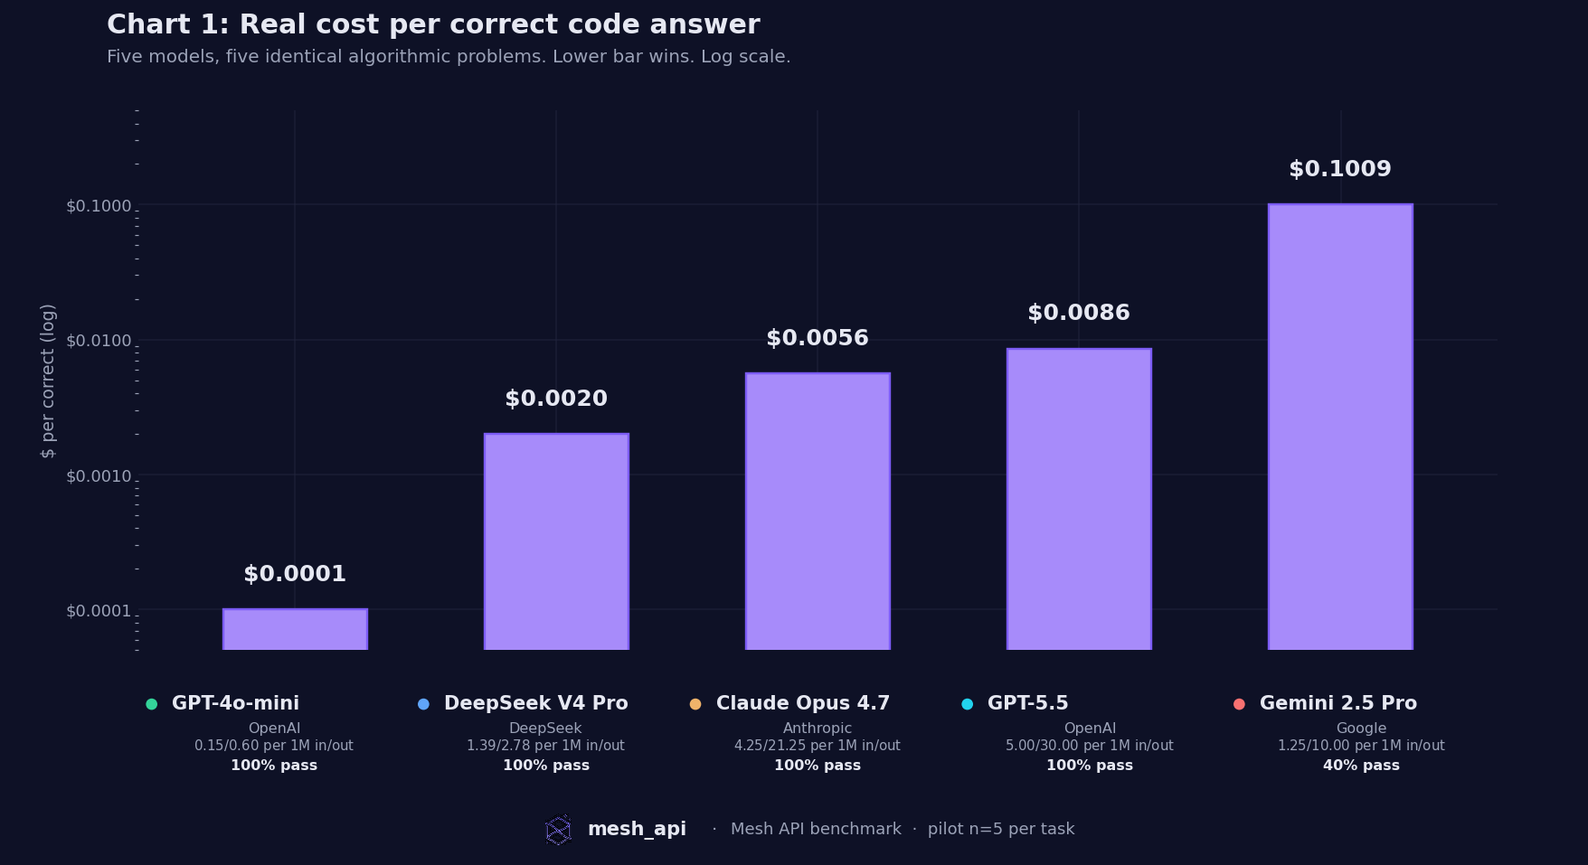
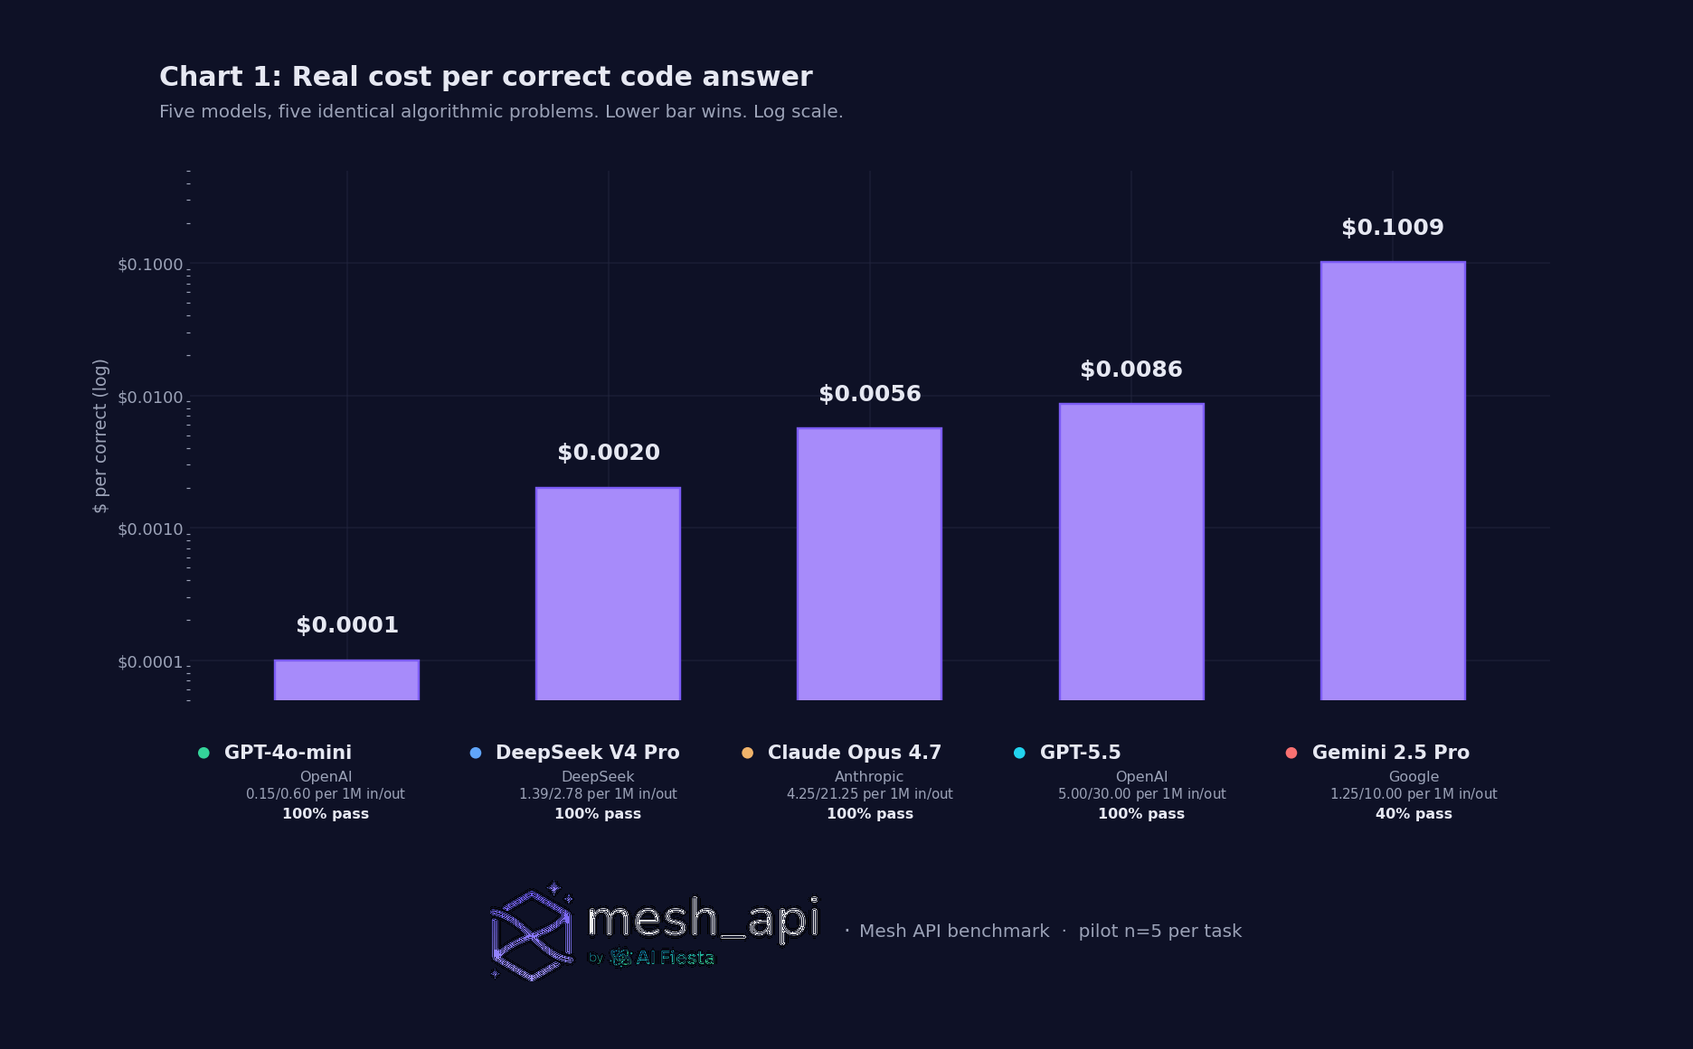
Charts and copy refresh
- Swap chart and table footer to the full mesh_api logo (transparent PNG,
  rendered from mesh_api_logo_main_dark_theme.svg via cairosvg).
- Add padding around every chart/table (pad_inches=0.5) for breathing room.
- Bump footer height so the logo + tagline read clearly at thread-image scale.
- Reframe Gemini reasoning-token claim across blog_post, x_article, README,
  and HTML: now phrased as "~23x more output tokens billed than what
  actually appeared in the response" (the ratio is the story).
- Add latency methodology caveat: numbers are end-to-end wall clock and
  include network RTT + Mesh routing overhead + provider inference, not
  isolated model service time.

diff --git a/blog_post.html b/blog_post.html
@@ -344,7 +344,7 @@
   </div>
   <div class="card">
     <div class="num">03</div>
-    <div class="lede"><strong>Gemini 2.5 Pro billed 19,165 "output tokens" across 5 code problems.</strong> Visible answer content: ~840 tokens. Roughly <strong>96% hidden reasoning</strong> Mesh strips before the response reaches you. The model still only got 2 of 5 problems right.</div>
+    <div class="lede"><strong>Gemini 2.5 Pro billed roughly 23x more output tokens than what actually appeared in its responses.</strong> ~19,000 billed across 5 code problems, ~840 visible. The other ~18,000 are hidden reasoning the API strips before the response reaches you. The model still only got 2 of 5 right.</div>
   </div>
   <div class="card">
     <div class="num">04</div>
@@ -455,7 +455,7 @@
 
 <p><strong>Gemini 2.5 Pro is the worst case we measured:</strong></p>
 <ul>
-  <li>Output tokens billed across 5 code problems: <strong>19,165</strong></li>
+  <li>Output tokens billed across 5 code problems: <strong>~19,000</strong></li>
   <li>Visible answer content total: ~3,400 characters, roughly <strong>~840 tokens</strong></li>
   <li><strong>~96% of what we paid for never reached the response body.</strong></li>
 </ul>
@@ -513,7 +513,7 @@
 
 <h2>Latency, while we're at it</h2>
 
-<p>Cost isn't the only axis. On the same calls:</p>
+<p>These are <strong>end-to-end wall-clock numbers</strong>, request to response. They include our network round-trip, Mesh's routing overhead, and the upstream provider's inference. Not isolated model service time. Cost isn't the only axis:</p>
 
 <div class="table-wrap">
 <table>

diff --git a/make_charts.py b/make_charts.py
@@ -8,7 +8,9 @@ from matplotlib.patches import FancyBboxPatch
 from pathlib import Path
 
 OUT_DIR = Path(__file__).parent
-LOGO_PATH = Path("/Users/raushan/Documents/Career/AiFiesta/MeshAPI/marketing/Branding/mesh_api_logo_v2/mesh_api_logo_icon.png")
+# Pre-rendered mesh_api logo (the full lockup, dark-theme version).
+# Source: mesh_api_logo_main_dark_theme.svg, rendered at 1600px and tight-cropped.
+LOGO_PATH = OUT_DIR / "_assets_mesh_api_logo.png"
 
 # Palette inspired by reference screenshot (dark navy bg, violet + orange bars)
 BG = "#0E1126"
@@ -159,67 +161,47 @@ def add_title(fig, title, subtitle=None):
 
 
 def add_footer(fig, text="Mesh API benchmark  ·  pilot n=5 per task"):
-    """Bottom-center footer: Mesh icon + 'mesh_api' wordmark + separator + caption.
+    """Bottom-center footer: full mesh_api logo (lockup) + separator + caption.
 
-    Uses an inset axes spanning the figure width at the very bottom so the
-    icon and text always sit on the same baseline, regardless of figure size.
+    The logo already includes the 'mesh_api' wordmark, so we don't draw a
+    separate wordmark; we just place the logo image and the caption text
+    side by side on the same baseline.
     """
-    # Figure-coordinate bounding box for the footer strip
-    foot_y = 0.012
-    foot_h = 0.05
+    foot_y = 0.005
+    foot_h = 0.110
     foot_ax = fig.add_axes([0.0, foot_y, 1.0, foot_h], frameon=False)
-    foot_ax.set_xlim(0, 1)
-    foot_ax.set_ylim(0, 1)
+    foot_ax.set_xlim(0, 1); foot_ax.set_ylim(0, 1)
     foot_ax.set_xticks([]); foot_ax.set_yticks([])
     for s in foot_ax.spines.values(): s.set_visible(False)
-    foot_ax.set_facecolor("none")
     foot_ax.patch.set_alpha(0)
 
-    # Compose the centered footer line:
-    # [icon]  mesh_api   ·   {caption text}
-    placed_logo = False
+    placed = False
     if LOGO_PATH.exists():
         try:
             img = mpimg.imread(str(LOGO_PATH))
-            # Icon aspect: 48x58 (w x h)
-            # Place inside foot_ax with imshow. extent in foot_ax coords.
-            # We want the icon to occupy ~70% of foot_h vertically.
-            icon_h_frac = 0.7
             ih, iw = img.shape[0], img.shape[1]
-            # Compute icon width in foot_ax coords given fig aspect:
             fig_w_in, fig_h_in = fig.get_size_inches()
-            # foot_ax is 1.0 wide in fig-coord-x (so its width in inches = fig_w_in).
-            # foot_ax is foot_h tall in fig-coord-y (so its height in inches = fig_h_in*foot_h).
             ax_w_in = fig_w_in
             ax_h_in = fig_h_in * foot_h
-            # icon height in inches = icon_h_frac * ax_h_in
-            icon_h_in = icon_h_frac * ax_h_in
-            icon_w_in = icon_h_in * iw / ih
-            # icon width in axes coords:
-            icon_w = icon_w_in / ax_w_in
-            icon_h = icon_h_frac
-            # Center the composite "[icon] mesh_api · caption" horizontally.
-            # Text widths estimated; refined empirically.
-            wordmark_w = 0.080   # axes-x fraction for "mesh_api" at fontsize 10
-            sep_w = 0.012
-            caption_w = 0.20     # approx
-            gap = 0.010
-            total = icon_w + gap + wordmark_w + sep_w + caption_w
+            logo_h_in = 0.95 * ax_h_in
+            logo_w_in = logo_h_in * iw / ih
+            logo_w = logo_w_in / ax_w_in
+            logo_h = 0.95
+            sep_w = 0.010
+            caption_w = 0.22
+            gap = 0.014
+            total = logo_w + gap + sep_w + caption_w
             x = (1 - total) / 2
-            # Place icon
-            foot_ax.imshow(img, extent=(x, x + icon_w, (1 - icon_h)/2, (1 + icon_h)/2),
+            foot_ax.imshow(img, extent=(x, x + logo_w, (1 - logo_h)/2, (1 + logo_h)/2),
                            aspect="auto", interpolation="lanczos", zorder=2)
-            cx = x + icon_w + gap
-            foot_ax.text(cx, 0.5, "mesh_api", color=TEXT, fontsize=10.5,
-                         fontweight="bold", ha="left", va="center")
-            cx += wordmark_w
-            foot_ax.text(cx, 0.5, "·", color=SUBTEXT, fontsize=10, ha="left", va="center")
+            cx = x + logo_w + gap
+            foot_ax.text(cx, 0.5, "·", color=SUBTEXT, fontsize=12, ha="left", va="center")
             cx += sep_w
-            foot_ax.text(cx, 0.5, text, color=SUBTEXT, fontsize=9, ha="left", va="center")
-            placed_logo = True
+            foot_ax.text(cx, 0.5, text, color=SUBTEXT, fontsize=10, ha="left", va="center")
+            placed = True
         except Exception:
             pass
-    if not placed_logo:
+    if not placed:
         foot_ax.text(0.5, 0.5, f"mesh_api  ·  {text}", color=SUBTEXT,
                      fontsize=9, ha="center", va="center")
 
@@ -229,8 +211,8 @@ def add_footer(fig, text="Mesh API benchmark  ·  pilot n=5 per task"):
 # Single-metric headline chart, but with pass-rate annotation.
 # =============================================================================
 def chart_1():
-    fig, ax = plt.subplots(figsize=(12, 6.8))
-    fig.subplots_adjust(top=0.85, bottom=0.24, left=0.08, right=0.95)
+    fig, ax = plt.subplots(figsize=(12, 7.4))
+    fig.subplots_adjust(top=0.85, bottom=0.30, left=0.08, right=0.95)
     add_title(fig, "Chart 1: Real cost per correct code answer",
               "Five models, five identical algorithmic problems. Lower bar wins. Log scale.")
 
@@ -260,7 +242,7 @@ def chart_1():
     extras = [f"{p:.0f}% pass" for p in pass_rates]
     model_labels(ax, models, colors, y_below=-0.10, extras=extras)
     add_footer(fig)
-    plt.savefig(OUT_DIR / "chart_1_real_cost.png", dpi=144, bbox_inches="tight",
+    plt.savefig(OUT_DIR / "chart_1_real_cost.png", dpi=144, bbox_inches="tight", pad_inches=0.5,
                 facecolor=BG)
     plt.close()
 
@@ -269,8 +251,8 @@ def chart_1():
 # Chart 2: Task A scoreboard. Two bars per model (pass rate + $/correct).
 # =============================================================================
 def chart_2():
-    fig, ax = plt.subplots(figsize=(12, 6.8))
-    fig.subplots_adjust(top=0.83, bottom=0.24, left=0.08, right=0.92)
+    fig, ax = plt.subplots(figsize=(12, 7.2))
+    fig.subplots_adjust(top=0.83, bottom=0.27, left=0.08, right=0.92)
     add_title(fig, "Chart 2: Task A scoreboard. Pass rate and $/correct.",
               "Five original code problems. Score is % of test cases passed (left). Cost is dollars per correct solution (right, log).")
 
@@ -319,7 +301,7 @@ def chart_2():
     pill_legend(ax, [("Pass rate, %", VIOLET), ("$/correct, log", ORANGE)], y=1.04)
     model_labels(ax, models, [ACCENT[m] for m in models], y_below=-0.10)
     add_footer(fig)
-    plt.savefig(OUT_DIR / "chart_2_task_a.png", dpi=144, bbox_inches="tight",
+    plt.savefig(OUT_DIR / "chart_2_task_a.png", dpi=144, bbox_inches="tight", pad_inches=0.5,
                 facecolor=BG)
     plt.close()
 
@@ -328,8 +310,8 @@ def chart_2():
 # Chart 3: Task B scoreboard. Two bars per model (quality + $/qual-pt).
 # =============================================================================
 def chart_3():
-    fig, ax = plt.subplots(figsize=(12, 6.8))
-    fig.subplots_adjust(top=0.83, bottom=0.24, left=0.08, right=0.92)
+    fig, ax = plt.subplots(figsize=(12, 7.2))
+    fig.subplots_adjust(top=0.83, bottom=0.27, left=0.08, right=0.92)
     add_title(fig, "Chart 3: Task B scoreboard. Quality and $/quality-point.",
               "Five customer-support tickets. Quality is the LLM judge mean (1 to 5, error bars span temp 0.0 and 0.3). Cost is dollars per quality-point.")
 
@@ -372,7 +354,7 @@ def chart_3():
     pill_legend(ax, [("Quality, 1 to 5", VIOLET), ("$/qual-pt, log", ORANGE)], y=1.04)
     model_labels(ax, models, [ACCENT[m] for m in models], y_below=-0.10)
     add_footer(fig)
-    plt.savefig(OUT_DIR / "chart_3_task_b.png", dpi=144, bbox_inches="tight",
+    plt.savefig(OUT_DIR / "chart_3_task_b.png", dpi=144, bbox_inches="tight", pad_inches=0.5,
                 facecolor=BG)
     plt.close()
 
@@ -430,7 +412,7 @@ def chart_4():
     ax.set_xlabel("$ per quality-point across both tasks (log scale)",
                   color=SUBTEXT, fontsize=9.5)
     add_footer(fig)
-    plt.savefig(OUT_DIR / "chart_4_cross_task.png", dpi=144, bbox_inches="tight",
+    plt.savefig(OUT_DIR / "chart_4_cross_task.png", dpi=144, bbox_inches="tight", pad_inches=0.5,
                 facecolor=BG)
     plt.close()
 

diff --git a/make_tables.py b/make_tables.py
@@ -12,7 +12,8 @@ import matplotlib.patches as patches
 from matplotlib.patches import FancyBboxPatch, Rectangle
 
 OUT_DIR = Path(__file__).parent
-LOGO_PATH = Path("/Users/raushan/Documents/Career/AiFiesta/MeshAPI/marketing/Branding/mesh_api_logo_v2/mesh_api_logo_icon.png")
+# Full lockup mesh_api logo (cropped from mesh_api_logo_main_dark_theme.svg).
+LOGO_PATH = OUT_DIR / "_assets_mesh_api_logo.png"
 
 # Palette matches make_charts.py
 BG = "#0E1126"
@@ -45,8 +46,9 @@ def add_title(fig, title, subtitle=None):
 
 
 def add_footer(fig, text="Mesh API benchmark  ·  pilot n=5 per task  ·  github.com/aifiesta/mesh-bench-cost-vs-quality"):
-    foot_y = 0.012
-    foot_h = 0.05
+    """Bottom-center footer: full mesh_api logo + separator + caption."""
+    foot_y = 0.005
+    foot_h = 0.110
     foot_ax = fig.add_axes([0.0, foot_y, 1.0, foot_h], frameon=False)
     foot_ax.set_xlim(0, 1); foot_ax.set_ylim(0, 1)
     foot_ax.set_xticks([]); foot_ax.set_yticks([])
@@ -60,30 +62,26 @@ def add_footer(fig, text="Mesh API benchmark  ·  pilot n=5 per task  ·  github
             fig_w_in, fig_h_in = fig.get_size_inches()
             ax_w_in = fig_w_in
             ax_h_in = fig_h_in * foot_h
-            icon_h_in = 0.7 * ax_h_in
-            icon_w_in = icon_h_in * iw / ih
-            icon_w = icon_w_in / ax_w_in
-            wordmark_w = 0.060
+            logo_h_in = 0.95 * ax_h_in
+            logo_w_in = logo_h_in * iw / ih
+            logo_w = logo_w_in / ax_w_in
+            logo_h = 0.95
             sep_w = 0.010
-            caption_w = 0.62
-            gap = 0.008
-            total = icon_w + gap + wordmark_w + sep_w + caption_w
+            caption_w = 0.60
+            gap = 0.014
+            total = logo_w + gap + sep_w + caption_w
             x = (1 - total) / 2
-            foot_ax.imshow(img, extent=(x, x + icon_w, 0.15, 0.85),
+            foot_ax.imshow(img, extent=(x, x + logo_w, (1 - logo_h)/2, (1 + logo_h)/2),
                            aspect="auto", interpolation="lanczos", zorder=2)
-            cx = x + icon_w + gap
-            foot_ax.text(cx, 0.5, "mesh_api", color=TEXT, fontsize=11,
-                         fontweight="bold", ha="left", va="center")
-            cx += wordmark_w
-            foot_ax.text(cx, 0.5, "·", color=MUTED, fontsize=11, ha="left", va="center")
+            cx = x + logo_w + gap
+            foot_ax.text(cx, 0.5, "·", color=MUTED, fontsize=12, ha="left", va="center")
             cx += sep_w
-            foot_ax.text(cx, 0.5, text, color=MUTED, fontsize=9, ha="left", va="center")
+            foot_ax.text(cx, 0.5, text, color=MUTED, fontsize=10, ha="left", va="center")
             placed = True
         except Exception:
             pass
     if not placed:
-        foot_ax.text(0.5, 0.5, f"mesh_api  ·  {text}", color=MUTED,
-                     fontsize=9, ha="center", va="center")
+        foot_ax.text(0.5, 0.5, text, color=MUTED, fontsize=9, ha="center", va="center")
 
 
 def draw_table(fig, ax, headers, rows, col_aligns=None, col_widths=None,
@@ -213,7 +211,7 @@ def table_1_pricing():
                col_aligns=["left", "left", "left", "right", "right"],
                col_widths=[0.26, 0.18, 0.16, 0.20, 0.20])
     add_footer(fig)
-    fig.savefig(OUT_DIR / "table_1_pricing.png", dpi=144, bbox_inches="tight", facecolor=BG)
+    fig.savefig(OUT_DIR / "table_1_pricing.png", dpi=144, bbox_inches="tight", pad_inches=0.5, facecolor=BG)
     plt.close(fig)
 
 
@@ -254,7 +252,7 @@ def table_2_headline():
                highlight_rows={0},
                color_cells=color_cells)
     add_footer(fig)
-    fig.savefig(OUT_DIR / "table_2_headline.png", dpi=144, bbox_inches="tight", facecolor=BG)
+    fig.savefig(OUT_DIR / "table_2_headline.png", dpi=144, bbox_inches="tight", pad_inches=0.5, facecolor=BG)
     plt.close(fig)
 
 
@@ -281,7 +279,7 @@ def table_3_tokenizer():
                highlight_rows=set(),  # don't mark a winner; outlier is the story
                color_cells=color_cells)
     add_footer(fig)
-    fig.savefig(OUT_DIR / "table_3_tokenizer.png", dpi=144, bbox_inches="tight", facecolor=BG)
+    fig.savefig(OUT_DIR / "table_3_tokenizer.png", dpi=144, bbox_inches="tight", pad_inches=0.5, facecolor=BG)
     plt.close(fig)
 
 
@@ -317,7 +315,7 @@ def table_4_cost_ratios():
                highlight_rows={0},
                color_cells=color_cells)
     add_footer(fig)
-    fig.savefig(OUT_DIR / "table_4_cost_ratios.png", dpi=144, bbox_inches="tight", facecolor=BG)
+    fig.savefig(OUT_DIR / "table_4_cost_ratios.png", dpi=144, bbox_inches="tight", pad_inches=0.5, facecolor=BG)
     plt.close(fig)
 
 
@@ -348,7 +346,7 @@ def table_5_latency():
                highlight_rows={0},
                color_cells=color_cells)
     add_footer(fig)
-    fig.savefig(OUT_DIR / "table_5_latency.png", dpi=144, bbox_inches="tight", facecolor=BG)
+    fig.savefig(OUT_DIR / "table_5_latency.png", dpi=144, bbox_inches="tight", pad_inches=0.5, facecolor=BG)
     plt.close(fig)
 
 

diff --git a/README.md b/README.md
@@ -18,7 +18,7 @@ A small, sharp, fully reproducible benchmark across five LLMs on two real worklo
 | GPT-5.5 | 5/5 | $0.00859 | 3.33 ± 0.13 | $0.01856 |
 | Gemini 2.5 Pro | 2/5 | $0.10090 | 3.17 ± 0.20 | $0.02288 |
 
-**What we found, in one paragraph.** GPT-4o-mini ($0.15/M input) won both axes. It got 5/5 on the code test and posted a customer-support quality score (3.03) within 14% of the most expensive model in the lineup, while costing 86x less per correct code answer than GPT-5.5 and 72x less per quality-point on support than Claude Opus 4.7. Four of five models tied at perfect on the code test, so the premium tiers bought no accuracy at this size, just higher bills. Claude Opus 4.7 led customer-support quality at 3.53 with a perfectly stable judge score (variance 0.00 across two passes), but the 0.5-point lead over the cheapest model cost roughly 72x more per quality-point. Gemini 2.5 Pro was the outlier in the wrong direction: 2/5 on the code test, and roughly 96% of its billed output tokens were hidden reasoning that never reached the response body, which made it 1,009x more expensive per correct code answer than GPT-4o-mini. On the input side, Claude Opus 4.7's tokenizer reported 60% more tokens than OpenAI's for the exact same English prompts, which means its effective input price on this corpus is closer to $8/M than the $5/M on the price card. Full write-up with charts and methodology: see `blog_post.html`.
+**What we found, in one paragraph.** GPT-4o-mini ($0.15/M input) won both axes. It got 5/5 on the code test and posted a customer-support quality score (3.03) within 14% of the most expensive model in the lineup, while costing 86x less per correct code answer than GPT-5.5 and 72x less per quality-point on support than Claude Opus 4.7. Four of five models tied at perfect on the code test, so the premium tiers bought no accuracy at this size, just higher bills. Claude Opus 4.7 led customer-support quality at 3.53 with a perfectly stable judge score (variance 0.00 across two passes), but the 0.5-point lead over the cheapest model cost roughly 72x more per quality-point. Gemini 2.5 Pro was the outlier in the wrong direction: 2/5 on the code test, and its invoice counted roughly 23x more output tokens than what actually appeared in its responses (hidden reasoning the API strips before sending the reply), which made it 1,009x more expensive per correct code answer than GPT-4o-mini. On the input side, Claude Opus 4.7's tokenizer reported 60% more tokens than OpenAI's for the exact same English prompts, which means its effective input price on this corpus is closer to $8/M than the $5/M on the price card. Full write-up with charts and methodology: see `blog_post.html`.
 
 > Pilot, n=5/task. Headline gaps are big enough that the broad shape is unlikely to flip, but second-decimal differences absolutely could. Run the scripts yourself; if you get different numbers, open an issue.
 
@@ -91,6 +91,7 @@ Every call uses temperature 0.2, max_tokens 4096, identical prompts across model
 
 ## What this benchmark deliberately does not cover
 
+- **Latency is end-to-end wall clock, not isolated model service time.** Numbers include our network round-trip, Mesh's routing/processing overhead, and the upstream provider's queue + inference. To break those apart you'd need Mesh server-side telemetry or direct-to-provider calls; neither is in this pilot.
 - n=5 per task in the pilot. Big enough to see headline gaps, too small for confidence intervals.
 - Single judge model (Opus 4.7). Own-output bias risk mitigated with the 2-temp variance check, not eliminated. v2 will use a three-judge ensemble.
 - No human eval. v2 will add a 100-item human calibration set.

diff --git a/x_article.md b/x_article.md
@@ -18,9 +18,9 @@ GPT-4o-mini ($0.15/M input) and GPT-5.5 ($5/M input) both got 5 of 5. Same answe
 
 A $5/M-input model is really charging ~$8/M-input on the text we sent. That hidden tax is not on Anthropic's price page.
 
-**3. Gemini 2.5 Pro billed 19,165 "output tokens" across 5 code problems.**
+**3. Gemini 2.5 Pro billed roughly 23x more output tokens than what actually showed up in the response.**
 
-Visible answer content: ~840 tokens. Roughly **96% hidden reasoning** that the API strips before the response reaches you. And the model still only got 2 of 5 problems right.
+Across 5 code problems Gemini's invoice counted ~19,000 output tokens. The visible answer content totaled ~840 tokens. The other ~18,000 are hidden reasoning the API strips before the response reaches you, so you pay for 23x what you can see. And the model still only got 2 of 5 problems right.
 
 **4. On customer support, the best model (Opus 4.7) was 14% higher quality than the cheapest (GPT-4o-mini), and 72x more expensive per quality-point.**
 
@@ -80,7 +80,7 @@ Your number will differ. Code-heavy traffic, multilingual, structured data, ever
 
 Some models "think" silently before they answer. Those reasoning tokens are real tokens, on your bill, even though you can't see them in the response.
 
-Gemini 2.5 Pro is the worst case we measured: **19,165 billed output tokens across 5 code problems, ~840 tokens of visible answer.** That's ~96% you paid for and never saw. The model still got 2 of 5 right. A single Gemini call on Task A cost ~$0.04 vs ~$0.0001 for GPT-4o-mini. **400x more expensive, two-fifths the accuracy.**
+Gemini 2.5 Pro is the worst case we measured. **Across 5 code problems it billed ~23x more output tokens than what actually appeared in the response.** ~19,000 billed, ~840 visible. That's ~96% paid for and never seen. The model still got 2 of 5 right. A single Gemini call on Task A cost ~$0.04 vs ~$0.0001 for GPT-4o-mini. **400x more expensive, two-fifths the accuracy.**
 
 GPT-5.5 also does internal reasoning (visibly less than Gemini, but it's there): 226 output tokens per Task A item vs 137 for GPT-4o-mini. That's 65% more billed output for similar-length final answers.
 
@@ -111,6 +111,8 @@ The decision rule isn't "use the best model." It's **route the call by what it a
 ---
 
 ## Latency, while we're at it
+
+These are **end-to-end wall-clock numbers**, request to response. They include our network round-trip, Mesh's routing overhead, and the upstream provider's inference. Not isolated model service time.
 
 | Model | Code task avg | Support task avg |
 | --- | --- | --- |

diff --git a/blog_post.md b/blog_post.md
@@ -20,7 +20,7 @@ This is a pilot (n=5/task). v1 with n=30 is coming. The headline gaps are big en
 
 2. **Claude Opus 4.7's tokenizer billed us ~60% more input tokens than OpenAI's for the same English prompts.** A $5/M-input model is really charging ~$8/M-input on the text we sent. That hidden tax is not on Anthropic's price page.
 
-3. **Gemini 2.5 Pro billed 19,165 "output tokens" across 5 code problems. Visible answer content: ~840 tokens.** That's **~96% hidden reasoning that Mesh strips before the response reaches you**, and the model still only got 2 of 5 problems right.
+3. **Gemini 2.5 Pro billed roughly 23x more output tokens than what actually appeared in its responses.** Across 5 code problems Gemini's invoice counted ~19,000 output tokens. The visible answer content totaled ~840 tokens. The other ~18,000 are hidden reasoning the API strips before the response reaches you. The model still only got 2 of 5 problems right.
 
 4. **On support, the best model (Opus 4.7) was 14% higher quality than the cheapest (GPT-4o-mini), and 72× more expensive per quality-point.** A small quality bump that costs a fortune.
 
@@ -103,9 +103,9 @@ Some models "think" silently before they answer. Those reasoning tokens are real
 
 **Gemini 2.5 Pro is the worst case we measured:**
 
-- Output tokens billed across 5 code problems: **19,165**
+- Output tokens billed across 5 code problems: **~19,000**
 - Visible answer content total: ~3,400 characters, roughly **~840 tokens**
-- **~96% of what we paid for never reached the response body.**
+- That's **roughly 23x more output tokens billed than actually appeared in the response.** ~96% paid for, never seen.
 
 A single Gemini call on Task A cost ~$0.04. The equivalent GPT-4o-mini call cost ~$0.0001. **400× more expensive, and Gemini got 2 of 5 right vs. GPT-4o-mini's 5 of 5.**
 
@@ -145,7 +145,7 @@ Opus 4.7 buys a small quality bump for a huge cost bump. That can be worth it on
 
 ## Latency, while we're at it
 
-Cost isn't the only axis. On the same calls:
+These are **end-to-end wall-clock numbers**, request to response. They include our network round-trip, Mesh's routing overhead, and the upstream provider's inference. Not isolated model service time. Cost isn't the only axis:
 
 | Model | Task A avg | Task B avg |
 | --- | --- | --- |
